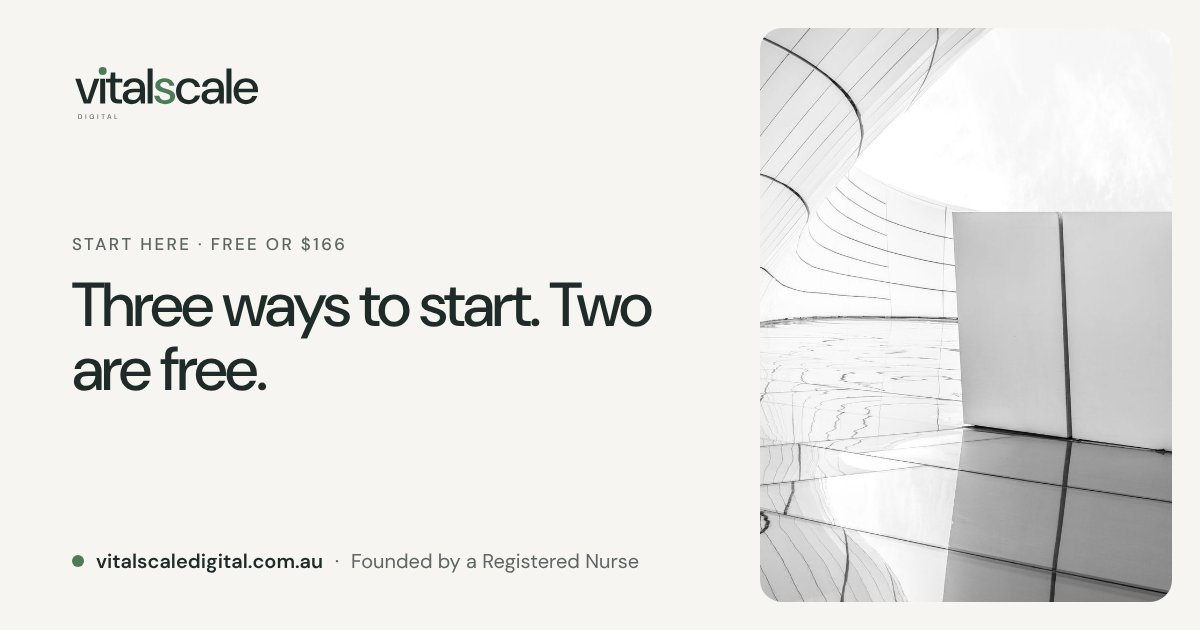
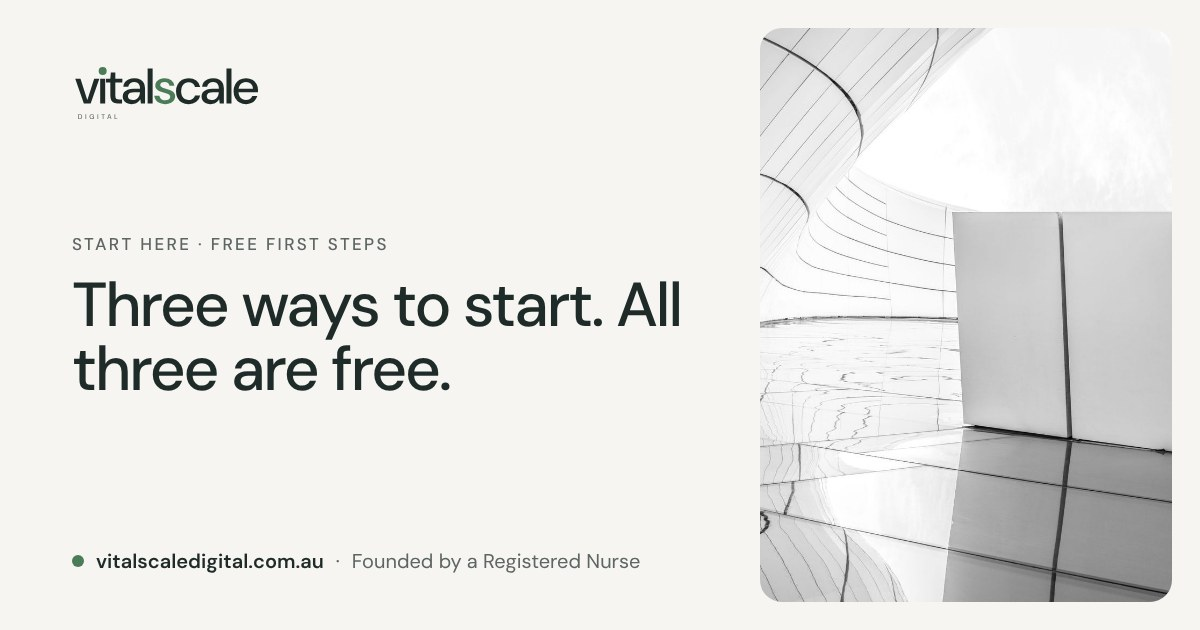
Three free ways to start (posts, website demo, policy checklist); 'Other ways we help' on service pages; Bloom Care links to Websites
Claude-Session: https://claude.ai/code/session_012Vi2C3pbGwJMH3zVt1ii12

Changed region(s): [[0.0617, 0.4222, 0.5858, 0.6333], [0.0925, 0.8746, 0.5242, 0.9048], [0.2158, 0.3619, 0.3083, 0.4222]]

diff --git a/site/start.html b/site/start.html
@@ -4,22 +4,22 @@
 <meta charset="utf-8">
 <meta name="viewport" content="width=device-width, initial-scale=1, viewport-fit=cover">
 <script>document.documentElement.classList.add("js")</script>
-<title>Start Here: Free Posts, Free Demo or $166 Check | VitalScale</title>
-<meta name="description" content="Three ways for NDIS providers to start: a free week of social media posts, a free website demo, or a $166 Policy vs Practice Gap Check by a nurse.">
+<title>Start Here: Free Posts, Website Demo or Policy Checklist</title>
+<meta name="description" content="Three free ways for NDIS providers to start: a week of social media posts, a website demo, or a policy checklist written by a nurse.">
 <link rel="canonical" href="https://vitalscaledigital.com.au/start">
 <meta property="og:type" content="website">
 <meta property="og:site_name" content="VitalScale Digital">
 <meta property="og:locale" content="en_AU">
-<meta property="og:title" content="Start Here: Free Posts, Free Demo or $166 Check | VitalScale">
-<meta property="og:description" content="Three ways for NDIS providers to start: a free week of social media posts, a free website demo, or a $166 Policy vs Practice Gap Check by a nurse.">
+<meta property="og:title" content="Start Here: Free Posts, Website Demo or Policy Checklist">
+<meta property="og:description" content="Three free ways for NDIS providers to start: a week of social media posts, a website demo, or a policy checklist written by a nurse.">
 <meta property="og:url" content="https://vitalscaledigital.com.au/start">
 <meta property="og:image" content="https://vitalscaledigital.com.au/og/start.jpg">
 <meta property="og:image:type" content="image/jpeg">
 <meta property="og:image:width" content="1200">
 <meta property="og:image:height" content="630">
-<meta property="og:image:alt" content="Three ways to start with VitalScale Digital. Two are free.">
+<meta property="og:image:alt" content="Three ways to start with VitalScale Digital. All three are free.">
 <meta name="twitter:card" content="summary_large_image">
-<script type="application/ld+json">{"@context": "https://schema.org", "@graph": [{"@type": "Organization", "@id": "https://vitalscaledigital.com.au/#organization", "name": "VitalScale Digital", "url": "https://vitalscaledigital.com.au/", "logo": {"@type": "ImageObject", "url": "https://vitalscaledigital.com.au/logo-primary.svg"}, "image": "https://vitalscaledigital.com.au/og-image.png", "description": "Nurse-led NDIS policies, social media and websites for NDIS providers in Australia, with safe AI and chatbots as an add-on.", "founder": {"@id": "https://vitalscaledigital.com.au/#ajay"}, "areaServed": {"@type": "Country", "name": "Australia"}, "contactPoint": {"@type": "ContactPoint", "contactType": "enquiries", "url": "https://vitalscaledigital.com.au/#book", "areaServed": "AU", "availableLanguage": "English", "telephone": "+61 406 970 615"}, "knowsAbout": ["NDIS providers", "NDIS registration", "NDIS policies and audits", "Social media marketing", "Safe use of AI in disability services", "Websites for NDIS providers"], "hasOfferCatalog": {"@type": "OfferCatalog", "name": "Services and prices for NDIS providers (all prices include GST)", "itemListElement": [{"@type": "Offer", "name": "Free week of posts", "url": "https://vitalscaledigital.com.au/free-week", "priceCurrency": "AUD", "priceSpecification": {"@type": "PriceSpecification", "price": 0, "priceCurrency": "AUD", "valueAddedTaxIncluded": true}, "price": "0"}, {"@type": "Offer", "name": "Free personalised website demo", "url": "https://vitalscaledigital.com.au/free-demo", "priceCurrency": "AUD", "priceSpecification": {"@type": "PriceSpecification", "price": 0, "priceCurrency": "AUD", "valueAddedTaxIncluded": true}, "price": "0"}, {"@type": "Offer", "name": "Policy vs Practice Gap Check", "url": "https://vitalscaledigital.com.au/policy-check", "priceCurrency": "AUD", "priceSpecification": {"@type": "PriceSpecification", "price": 166, "priceCurrency": "AUD", "valueAddedTaxIncluded": true}, "price": "166"}, {"@type": "Offer", "name": "Online Trust Check", "url": "https://vitalscaledigital.com.au/checks#trust-check", "priceCurrency": "AUD", "priceSpecification": {"@type": "PriceSpecification", "price": 166, "priceCurrency": "AUD", "valueAddedTaxIncluded": true}, "price": "166"}, {"@type": "Offer", "name": "Policy + Evidence System", "url": "https://vitalscaledigital.com.au/ndis-policies-and-procedures", "priceCurrency": "AUD", "priceSpecification": {"@type": "PriceSpecification", "minPrice": 1755, "priceCurrency": "AUD", "valueAddedTaxIncluded": true}}, {"@type": "Offer", "name": "Scroll-stopping Social Media", "url": "https://vitalscaledigital.com.au/ndis-marketing", "priceCurrency": "AUD", "priceSpecification": {"@type": "UnitPriceSpecification", "minPrice": 1423, "priceCurrency": "AUD", "valueAddedTaxIncluded": true, "unitText": "month"}}, {"@type": "Offer", "name": "Branding photos add-on", "url": "https://vitalscaledigital.com.au/pricing#social", "priceCurrency": "AUD", "priceSpecification": {"@type": "PriceSpecification", "price": 214, "priceCurrency": "AUD", "valueAddedTaxIncluded": true}, "price": "214"}, {"@type": "Offer", "name": "NDIS Website", "url": "https://vitalscaledigital.com.au/ndis-website-design", "priceCurrency": "AUD", "priceSpecification": {"@type": "PriceSpecification", "minPrice": 1380, "priceCurrency": "AUD", "valueAddedTaxIncluded": true}}, {"@type": "Offer", "name": "Website Care Plan", "url": "https://vitalscaledigital.com.au/ndis-website-design", "priceCurrency": "AUD", "priceSpecification": {"@type": "UnitPriceSpecification", "price": 166, "priceCurrency": "AUD", "valueAddedTaxIncluded": true, "unitText": "month"}, "price": "166"}, {"@type": "Offer", "name": "Safe AI and chatbots (add-on, priced in your proposal)", "url": "https://vitalscaledigital.com.au/safe-ai-for-ndis-providers"}, {"@type": "Offer", "name": "Branding or rebranding add-on", "url": "https://vitalscaledigital.com.au/ndis-website-design", "priceCurrency": "AUD", "priceSpecification": {"@type": "PriceSpecification", "price": 288, "priceCurrency": "AUD", "valueAddedTaxIncluded": true}, "price": "288"}, {"@type": "Offer", "name": "Google Business Profile add-on (setup)", "url": "https://vitalscaledigital.com.au/ndis-marketing#add-ons", "priceCurrency": "AUD", "priceSpecification": {"@type": "PriceSpecification", "price": 330, "priceCurrency": "AUD", "valueAddedTaxIncluded": true}, "price": "330"}, {"@type": "Offer", "name": "WhatsApp Business add-on (setup)", "url": "https://vitalscaledigital.com.au/ndis-marketing#add-ons", "priceCurrency": "AUD", "priceSpecification": {"@type": "PriceSpecification", "price": 330, "priceCurrency": "AUD", "valueAddedTaxIncluded": true}, "price": "330"}, {"@type": "Offer", "name": "Google Business Profile and WhatsApp Business add-ons together (setup)", "url": "https://vitalscaledigital.com.au/ndis-marketing#add-ons", "priceCurrency": "AUD", "priceSpecification": {"@type": "PriceSpecification", "price": 500, "priceCurrency": "AUD", "valueAddedTaxIncluded": true}, "price": "500"}, {"@type": "Offer", "name": "Add-on monthly management (optional, each)", "url": "https://vitalscaledigital.com.au/ndis-marketing#add-ons", "priceCurrency": "AUD", "priceSpecification": {"@type": "UnitPriceSpecification", "price": 166, "priceCurrency": "AUD", "valueAddedTaxIncluded": true, "unitText": "month"}, "price": "166"}, {"@type": "Offer", "name": "Website extras: AI chatbot, accessibility tools, online booking, extra languages, extra pages (quoted before we start)", "url": "https://vitalscaledigital.com.au/ndis-website-design"}]}, "sameAs": ["https://www.linkedin.com/company/vitalscale-digital/", "https://www.facebook.com/profile.php?id=61585755002903", "https://www.instagram.com/vital.scale.digital/", "https://maps.app.goo.gl/Z67sVE7jP8tvo4Ni9", "https://www.youtube.com/@vitalscaledigital-ajaysingh", "https://www.hotfrog.com.au/company/AaG9rtYNcgqtML1RWFkHHg/vitalscale-digital/melbourne/marketing-sales"], "email": "ajay.singh@vitalscaledigital.com.au", "telephone": "+61 406 970 615", "address": {"@type": "PostalAddress", "addressLocality": "Melbourne", "addressRegion": "VIC", "addressCountry": "AU"}}, {"@type": "Person", "@id": "https://vitalscaledigital.com.au/#ajay", "name": "Ajay Singh", "jobTitle": "Registered Nurse and founder", "description": "Registered Nurse and founder of VitalScale Digital. Ajay started VitalScale to help good NDIS providers spend less time on paperwork and be found by the people looking for them.", "image": "https://vitalscaledigital.com.au/photos/ajay.jpg", "url": "https://vitalscaledigital.com.au/#founder", "worksFor": {"@id": "https://vitalscaledigital.com.au/#organization"}, "sameAs": ["https://www.linkedin.com/in/ajay-vitalscaledigital/"]}, {"@type": "WebSite", "@id": "https://vitalscaledigital.com.au/#website", "url": "https://vitalscaledigital.com.au/", "name": "VitalScale Digital", "inLanguage": "en-AU", "publisher": {"@id": "https://vitalscaledigital.com.au/#organization"}}, {"@type": "WebPage", "@id": "https://vitalscaledigital.com.au/start#webpage", "url": "https://vitalscaledigital.com.au/start", "name": "Start Here: Free Posts, Free Demo or $166 Check | VitalScale", "description": "Three ways for NDIS providers to start: a free week of social media posts, a free website demo, or a $166 Policy vs Practice Gap Check by a nurse.", "isPartOf": {"@id": "https://vitalscaledigital.com.au/#website"}, "inLanguage": "en-AU", "breadcrumb": {"@id": "https://vitalscaledigital.com.au/start#breadcrumb"}, "about": {"@id": "https://vitalscaledigital.com.au/start#offers"}}, {"@type": "OfferCatalog", "@id": "https://vitalscaledigital.com.au/start#offers", "name": "Ways to start with VitalScale Digital", "itemListElement": [{"@type": "Offer", "name": "Free week of posts", "url": "https://vitalscaledigital.com.au/free-week", "priceCurrency": "AUD", "priceSpecification": {"@type": "PriceSpecification", "price": 0, "priceCurrency": "AUD", "valueAddedTaxIncluded": true}, "price": "0"}, {"@type": "Offer", "name": "Free personalised website demo", "url": "https://vitalscaledigital.com.au/free-demo", "priceCurrency": "AUD", "priceSpecification": {"@type": "PriceSpecification", "price": 0, "priceCurrency": "AUD", "valueAddedTaxIncluded": true}, "price": "0"}, {"@type": "Offer", "name": "Policy vs Practice Gap Check", "url": "https://vitalscaledigital.com.au/policy-check", "priceCurrency": "AUD", "priceSpecification": {"@type": "PriceSpecification", "price": 166, "priceCurrency": "AUD", "valueAddedTaxIncluded": true}, "price": "166"}, {"@type": "Offer", "name": "Online Trust Check", "url": "https://vitalscaledigital.com.au/checks#trust-check", "priceCurrency": "AUD", "priceSpecification": {"@type": "PriceSpecification", "price": 166, "priceCurrency": "AUD", "valueAddedTaxIncluded": true}, "price": "166"}]}, {"@type": "BreadcrumbList", "@id": "https://vitalscaledigital.com.au/start#breadcrumb", "itemListElement": [{"@type": "ListItem", "position": 1, "name": "Home", "item": "https://vitalscaledigital.com.au/"}, {"@type": "ListItem", "position": 2, "name": "Start here", "item": "https://vitalscaledigital.com.au/start"}]}]}</script>
+<script type="application/ld+json">{"@context": "https://schema.org", "@graph": [{"@type": "Organization", "@id": "https://vitalscaledigital.com.au/#organization", "name": "VitalScale Digital", "url": "https://vitalscaledigital.com.au/", "logo": {"@type": "ImageObject", "url": "https://vitalscaledigital.com.au/logo-primary.svg"}, "image": "https://vitalscaledigital.com.au/og-image.png", "description": "Nurse-led NDIS policies, social media and websites for NDIS providers in Australia, with safe AI and chatbots as an add-on.", "founder": {"@id": "https://vitalscaledigital.com.au/#ajay"}, "areaServed": {"@type": "Country", "name": "Australia"}, "contactPoint": {"@type": "ContactPoint", "contactType": "enquiries", "url": "https://vitalscaledigital.com.au/#book", "areaServed": "AU", "availableLanguage": "English", "telephone": "+61 406 970 615"}, "knowsAbout": ["NDIS providers", "NDIS registration", "NDIS policies and audits", "Social media marketing", "Safe use of AI in disability services", "Websites for NDIS providers"], "hasOfferCatalog": {"@type": "OfferCatalog", "name": "Services and prices for NDIS providers (all prices include GST)", "itemListElement": [{"@type": "Offer", "name": "Free week of posts", "url": "https://vitalscaledigital.com.au/free-week", "priceCurrency": "AUD", "priceSpecification": {"@type": "PriceSpecification", "price": 0, "priceCurrency": "AUD", "valueAddedTaxIncluded": true}, "price": "0"}, {"@type": "Offer", "name": "Free personalised website demo", "url": "https://vitalscaledigital.com.au/free-demo", "priceCurrency": "AUD", "priceSpecification": {"@type": "PriceSpecification", "price": 0, "priceCurrency": "AUD", "valueAddedTaxIncluded": true}, "price": "0"}, {"@type": "Offer", "name": "Policy vs Practice Gap Check", "url": "https://vitalscaledigital.com.au/policy-check", "priceCurrency": "AUD", "priceSpecification": {"@type": "PriceSpecification", "price": 166, "priceCurrency": "AUD", "valueAddedTaxIncluded": true}, "price": "166"}, {"@type": "Offer", "name": "Online Trust Check", "url": "https://vitalscaledigital.com.au/checks#trust-check", "priceCurrency": "AUD", "priceSpecification": {"@type": "PriceSpecification", "price": 166, "priceCurrency": "AUD", "valueAddedTaxIncluded": true}, "price": "166"}, {"@type": "Offer", "name": "Policy + Evidence System", "url": "https://vitalscaledigital.com.au/ndis-policies-and-procedures", "priceCurrency": "AUD", "priceSpecification": {"@type": "PriceSpecification", "minPrice": 1755, "priceCurrency": "AUD", "valueAddedTaxIncluded": true}}, {"@type": "Offer", "name": "Scroll-stopping Social Media", "url": "https://vitalscaledigital.com.au/ndis-marketing", "priceCurrency": "AUD", "priceSpecification": {"@type": "UnitPriceSpecification", "minPrice": 1423, "priceCurrency": "AUD", "valueAddedTaxIncluded": true, "unitText": "month"}}, {"@type": "Offer", "name": "Branding photos add-on", "url": "https://vitalscaledigital.com.au/pricing#social", "priceCurrency": "AUD", "priceSpecification": {"@type": "PriceSpecification", "price": 214, "priceCurrency": "AUD", "valueAddedTaxIncluded": true}, "price": "214"}, {"@type": "Offer", "name": "NDIS Website", "url": "https://vitalscaledigital.com.au/ndis-website-design", "priceCurrency": "AUD", "priceSpecification": {"@type": "PriceSpecification", "minPrice": 1380, "priceCurrency": "AUD", "valueAddedTaxIncluded": true}}, {"@type": "Offer", "name": "Website Care Plan", "url": "https://vitalscaledigital.com.au/ndis-website-design", "priceCurrency": "AUD", "priceSpecification": {"@type": "UnitPriceSpecification", "price": 166, "priceCurrency": "AUD", "valueAddedTaxIncluded": true, "unitText": "month"}, "price": "166"}, {"@type": "Offer", "name": "Safe AI and chatbots (add-on, priced in your proposal)", "url": "https://vitalscaledigital.com.au/safe-ai-for-ndis-providers"}, {"@type": "Offer", "name": "Branding or rebranding add-on", "url": "https://vitalscaledigital.com.au/ndis-website-design", "priceCurrency": "AUD", "priceSpecification": {"@type": "PriceSpecification", "price": 288, "priceCurrency": "AUD", "valueAddedTaxIncluded": true}, "price": "288"}, {"@type": "Offer", "name": "Google Business Profile add-on (setup)", "url": "https://vitalscaledigital.com.au/ndis-marketing#add-ons", "priceCurrency": "AUD", "priceSpecification": {"@type": "PriceSpecification", "price": 330, "priceCurrency": "AUD", "valueAddedTaxIncluded": true}, "price": "330"}, {"@type": "Offer", "name": "WhatsApp Business add-on (setup)", "url": "https://vitalscaledigital.com.au/ndis-marketing#add-ons", "priceCurrency": "AUD", "priceSpecification": {"@type": "PriceSpecification", "price": 330, "priceCurrency": "AUD", "valueAddedTaxIncluded": true}, "price": "330"}, {"@type": "Offer", "name": "Google Business Profile and WhatsApp Business add-ons together (setup)", "url": "https://vitalscaledigital.com.au/ndis-marketing#add-ons", "priceCurrency": "AUD", "priceSpecification": {"@type": "PriceSpecification", "price": 500, "priceCurrency": "AUD", "valueAddedTaxIncluded": true}, "price": "500"}, {"@type": "Offer", "name": "Add-on monthly management (optional, each)", "url": "https://vitalscaledigital.com.au/ndis-marketing#add-ons", "priceCurrency": "AUD", "priceSpecification": {"@type": "UnitPriceSpecification", "price": 166, "priceCurrency": "AUD", "valueAddedTaxIncluded": true, "unitText": "month"}, "price": "166"}, {"@type": "Offer", "name": "Website extras: AI chatbot, accessibility tools, online booking, extra languages, extra pages (quoted before we start)", "url": "https://vitalscaledigital.com.au/ndis-website-design"}]}, "sameAs": ["https://www.linkedin.com/company/vitalscale-digital/", "https://www.facebook.com/profile.php?id=61585755002903", "https://www.instagram.com/vital.scale.digital/", "https://maps.app.goo.gl/Z67sVE7jP8tvo4Ni9", "https://www.youtube.com/@vitalscaledigital-ajaysingh", "https://www.hotfrog.com.au/company/AaG9rtYNcgqtML1RWFkHHg/vitalscale-digital/melbourne/marketing-sales"], "email": "ajay.singh@vitalscaledigital.com.au", "telephone": "+61 406 970 615", "address": {"@type": "PostalAddress", "addressLocality": "Melbourne", "addressRegion": "VIC", "addressCountry": "AU"}}, {"@type": "Person", "@id": "https://vitalscaledigital.com.au/#ajay", "name": "Ajay Singh", "jobTitle": "Registered Nurse and founder", "description": "Registered Nurse and founder of VitalScale Digital. Ajay started VitalScale to help good NDIS providers spend less time on paperwork and be found by the people looking for them.", "image": "https://vitalscaledigital.com.au/photos/ajay.jpg", "url": "https://vitalscaledigital.com.au/#founder", "worksFor": {"@id": "https://vitalscaledigital.com.au/#organization"}, "sameAs": ["https://www.linkedin.com/in/ajay-vitalscaledigital/"]}, {"@type": "WebSite", "@id": "https://vitalscaledigital.com.au/#website", "url": "https://vitalscaledigital.com.au/", "name": "VitalScale Digital", "inLanguage": "en-AU", "publisher": {"@id": "https://vitalscaledigital.com.au/#organization"}}, {"@type": "WebPage", "@id": "https://vitalscaledigital.com.au/start#webpage", "url": "https://vitalscaledigital.com.au/start", "name": "Start Here: Free Posts, Free Demo or $166 Check | VitalScale", "description": "Three free ways for NDIS providers to start: a week of social media posts, a website demo, or a policy checklist written by a nurse.", "isPartOf": {"@id": "https://vitalscaledigital.com.au/#website"}, "inLanguage": "en-AU", "breadcrumb": {"@id": "https://vitalscaledigital.com.au/start#breadcrumb"}, "about": {"@id": "https://vitalscaledigital.com.au/start#offers"}}, {"@type": "OfferCatalog", "@id": "https://vitalscaledigital.com.au/start#offers", "name": "Ways to start with VitalScale Digital", "itemListElement": [{"@type": "Offer", "name": "Free week of posts", "url": "https://vitalscaledigital.com.au/free-week", "priceCurrency": "AUD", "priceSpecification": {"@type": "PriceSpecification", "price": 0, "priceCurrency": "AUD", "valueAddedTaxIncluded": true}, "price": "0"}, {"@type": "Offer", "name": "Free personalised website demo", "url": "https://vitalscaledigital.com.au/free-demo", "priceCurrency": "AUD", "priceSpecification": {"@type": "PriceSpecification", "price": 0, "priceCurrency": "AUD", "valueAddedTaxIncluded": true}, "price": "0"}, {"@type": "Offer", "name": "Policy vs Practice Gap Check", "url": "https://vitalscaledigital.com.au/policy-check", "priceCurrency": "AUD", "priceSpecification": {"@type": "PriceSpecification", "price": 166, "priceCurrency": "AUD", "valueAddedTaxIncluded": true}, "price": "166"}, {"@type": "Offer", "name": "Online Trust Check", "url": "https://vitalscaledigital.com.au/checks#trust-check", "priceCurrency": "AUD", "priceSpecification": {"@type": "PriceSpecification", "price": 166, "priceCurrency": "AUD", "valueAddedTaxIncluded": true}, "price": "166"}]}, {"@type": "BreadcrumbList", "@id": "https://vitalscaledigital.com.au/start#breadcrumb", "itemListElement": [{"@type": "ListItem", "position": 1, "name": "Home", "item": "https://vitalscaledigital.com.au/"}, {"@type": "ListItem", "position": 2, "name": "Start here", "item": "https://vitalscaledigital.com.au/start"}]}]}</script>
 <link rel="preconnect" href="https://fonts.googleapis.com"><link rel="preconnect" href="https://fonts.gstatic.com" crossorigin><link rel="stylesheet" href="https://fonts.googleapis.com/css2?family=DM+Sans:opsz,wght@9..40,400;9..40,500;9..40,600&display=swap">
 <link rel="stylesheet" href="styles.css">
 <link rel="icon" href="/icon-vs.png" type="image/png" sizes="96x96">
@@ -36,16 +36,16 @@
 <section class="hero"><div class="wrap">
   <div class="hero-copy">
     <span class="eyebrow">Start here</span>
-    <h1>Three ways to start. Two are free.</h1>
-    <p class="lede">Pick the one you need help with: social media, your website or your policies. The posts and the demo are free, with no card. The Gap Check is $166 inc GST.</p>
+    <h1>Three ways to start. All three are free.</h1>
+    <p class="lede">Pick the one you need help with: social media, your website or your policies. Each one has a free first step, with no card.</p>
     <ul class="trust-strip" aria-label="Why VitalScale"><li>Registered Nurse</li><li>NDIS only</li><li>Prices include GST</li><li>No hidden costs</li><li>No promised outcomes</li></ul>
   </div>
   <figure class="photo photo-hero"><img src="photos/hero.jpg" alt="" width="1600" height="1068" fetchpriority="high"></figure>
 </div></section>
 
 <section class="band" id="offers"><div class="wrap">
-  <div class="start-cards"><article class="start-card accent-social"><span class="eyebrow">Social media</span><h2>Free week of posts</h2><p class="price-tag">Free</p><p class="muted">We design a week of posts around your services and your area. You upload them yourself, and you don&#x27;t have to buy anything after.</p><ul class="tick-list"><li>3 single-image posts and 1 carousel</li><li>Captions for families and support coordinators</li><li>No card, one per business</li></ul><a class="btn btn-primary" href="free-week.html">Get a free week of posts</a></article><article class="start-card accent-websites"><span class="eyebrow">Websites</span><h2>Free personalised website demo</h2><p class="price-tag">Free</p><p class="muted">We design a homepage for your business and show it to you on a computer and a phone. It&#x27;s a demo of one page, so you can see our work before you spend anything.</p><ul class="tick-list"><li>Your services, your area and how to refer</li><li>Plain English, planned around what families and coordinators look for</li><li>No card and no obligation</li></ul><a class="btn btn-primary" href="free-demo.html">Get a free website demo</a></article><article class="start-card accent-policies"><span class="eyebrow">Policies</span><h2>Policy vs Practice Gap Check</h2><p class="price-tag">$166 inc GST</p><p class="muted">A Registered Nurse reads your policies, compares them with how your team actually works, and shows you where the two don&#x27;t match. If you go ahead with our Policy + Evidence System within 30 days, the full $166 comes off the price.</p><ul class="tick-list"><li>You send up to 5 policies and a short form</li><li>You get a written gap report, top gaps ranked</li><li>A 30-minute call with Ajay</li></ul><a class="btn btn-primary" href="policy-check.html">Check my policies, $166</a></article></div>
-  <div class="start-foot"><p class="muted">See a real one: Bloom Care, an NDIS provider in Melbourne&#x27;s west. <a href="work/bloom-care.html">See how we built it</a></p><p class="muted">Already have a social media page and a website? The $166 inc GST <a href="checks.html#trust-check">Online Trust Check</a> shows what families and coordinators see, with a video walkthrough, checklist and 20-minute call.</p><p class="muted">Not sure which one? Call or WhatsApp Ajay on <a href="tel:+61406970615">0406 970 615</a>, and he&#x27;ll tell you which fits, if any.</p></div>
+  <div class="start-cards"><article class="start-card accent-social"><span class="eyebrow">Social media</span><h2>Free week of posts</h2><p class="price-tag">Free</p><p class="muted">We design a week of posts around your services and your area. You upload them yourself, and you don&#x27;t have to buy anything after.</p><ul class="tick-list"><li>3 single-image posts and 1 carousel</li><li>Captions for families and support coordinators</li><li>No card, one per business</li></ul><a class="btn btn-primary" href="free-week.html">Get a free week of posts</a></article><article class="start-card accent-websites"><span class="eyebrow">Websites</span><h2>Free personalised website demo</h2><p class="price-tag">Free</p><p class="muted">We design a homepage for your business and show it to you on a computer and a phone. It&#x27;s a demo of one page, so you can see our work before you spend anything.</p><ul class="tick-list"><li>Your services, your area and how to refer</li><li>Plain English, planned around what families and coordinators look for</li><li>No card and no obligation</li></ul><a class="btn btn-primary" href="free-demo.html">Get a free website demo</a></article><article class="start-card accent-policies"><span class="eyebrow">Policies</span><h2>Free NDIS policy checklist</h2><p class="price-tag">Free</p><p class="muted">Every policy an NDIS provider needs, what an auditor wants to see for each one, and who it applies to. Written by a Registered Nurse.</p><ul class="tick-list"><li>26 items in three parts: every provider, registered, and specific supports</li><li>Built from the NDIS Commission&#x27;s Practice Standards and Code of Conduct</li><li>Enter your email and the PDF downloads straight away</li></ul><a class="btn btn-primary" href="ndis-policy-checklist.html">Get the free checklist</a></article></div>
+  <div class="start-foot"><p class="muted">Want a nurse to check your own policies? The $166 inc GST <a href="policy-check.html">Policy vs Practice Gap Check</a> compares up to 5 of your policies with how your team works, with a written gap report and a 30-minute call.</p><p class="muted">See a real one: Bloom Care, an NDIS provider in Melbourne&#x27;s west. <a href="work/bloom-care.html">See how we built it</a></p><p class="muted">Already have a social media page and a website? The $166 inc GST <a href="checks.html#trust-check">Online Trust Check</a> shows what families and coordinators see, with a video walkthrough, checklist and 20-minute call.</p><p class="muted">Not sure which one? Call or WhatsApp Ajay on <a href="tel:+61406970615">0406 970 615</a>, and he&#x27;ll tell you which fits, if any.</p></div>
 </div></section>
 </main>
 <footer class="site-footer"><div class="wrap">

diff --git a/site/ndis-website-design.html b/site/ndis-website-design.html
@@ -135,6 +135,7 @@
   </div>
 </div></section>
 
+<section class="other-help"><div class="wrap"><h2 class="other-title">Other ways we help</h2><div class="other-grid"><a class="other-card" href="ndis-policies-and-procedures.html"><span class="eyebrow">Policies</span><span>Policies written around how your team actually works.</span></a><a class="other-card" href="ndis-marketing.html"><span class="eyebrow">More enquiries</span><span>Social media that brings enquiries from families and support coordinators.</span></a></div></div></section>
 <section class="start-section band" id="start-bottom"><div class="wrap"><div class="start-block accent-websites"><div class="stack"><span class="eyebrow">Start here</span><h2>See a homepage demo before you decide</h2><p class="muted">A free demo of one homepage, made for your business. If you want the full site later, you get a fixed written quote first.</p></div><a class="btn btn-primary" href="free-demo.html">Get a free website demo</a></div></div></section>
 
 <section id="book"><div class="wrap"><div class="cta cta-form">

diff --git a/site/ndis-policies-and-procedures.html b/site/ndis-policies-and-procedures.html
@@ -172,6 +172,7 @@
   </div>
 </div></section>
 
+<section class="other-help"><div class="wrap"><h2 class="other-title">Other ways we help</h2><div class="other-grid"><a class="other-card" href="ndis-marketing.html"><span class="eyebrow">More enquiries</span><span>Social media that brings enquiries from families and support coordinators.</span></a><a class="other-card" href="ndis-website-design.html"><span class="eyebrow">Websites</span><span>Plain-English websites that make it easy to refer to you.</span></a></div></div></section>
 <section class="start-section band" id="start-bottom"><div class="wrap"><div class="start-block accent-policies"><div class="stack"><span class="eyebrow">Start here</span><h2>Start with a $166 Gap Check</h2><p class="muted">Find your gaps first. If you go ahead with our Policy + Evidence System within 30 days, the full $166 comes off the price.</p></div><a class="btn btn-primary" href="policy-check.html">Check my policies, $166</a></div></div></section>
 
 <section id="book"><div class="wrap"><div class="cta cta-form">

diff --git a/site/ndis-marketing.html b/site/ndis-marketing.html
@@ -165,6 +165,7 @@
   </div>
 </div></section>
 
+<section class="other-help"><div class="wrap"><h2 class="other-title">Other ways we help</h2><div class="other-grid"><a class="other-card" href="ndis-policies-and-procedures.html"><span class="eyebrow">Policies</span><span>Policies written around how your team actually works.</span></a><a class="other-card" href="ndis-website-design.html"><span class="eyebrow">Websites</span><span>Plain-English websites that make it easy to refer to you.</span></a></div></div></section>
 <section class="start-section band" id="start-bottom"><div class="wrap"><div class="start-block accent-social"><div class="stack"><span class="eyebrow">Start here</span><h2>Still deciding? Start with a free week.</h2><p class="muted">See posts made for your business before you spend a cent. No card needed, and you don&#x27;t have to buy anything after.</p></div><a class="btn btn-primary" href="free-week.html">Get a free week of posts</a></div></div></section>
 
 <section id="book"><div class="wrap"><div class="cta cta-form">

diff --git a/site/styles.css b/site/styles.css
@@ -1026,3 +1026,12 @@ body, body::before { background: var(--page); }
 @media (min-width: 761px) {
   .hero::before { background: linear-gradient(90deg, rgba(14, 28, 27, 0.95) 0%, rgba(14, 28, 27, 0.90) 45%, rgba(14, 28, 27, 0.62) 75%, rgba(14, 28, 27, 0.18) 100%); }
 }
+
+/* "Other ways we help": a small strip on each service page linking to the other two services */
+.other-help { padding-block: clamp(40px, 6vw, 72px); }
+.other-title { font-size: var(--step-2); margin-bottom: 20px; }
+.other-grid { display: grid; grid-template-columns: repeat(2, minmax(0, 1fr)); gap: 16px; }
+.other-card { display: grid; gap: 8px; padding: 22px 24px; background: var(--white); border: 1px solid var(--line); border-radius: var(--radius); text-decoration: none; color: var(--black); }
+.other-card:hover { border-color: var(--deep-green); }
+.other-card span:last-child::after { content: " \2192"; }
+@media (max-width: 700px) { .other-grid { grid-template-columns: minmax(0, 1fr); } }

diff --git a/site/index.html b/site/index.html
@@ -43,7 +43,7 @@
       <a class="btn btn-ghost" href="checks.html#trust-check">Check my online presence, $166</a>
       <a class="scroll-down" href="#services" aria-label="Scroll to services">&#8595;</a>
     </div>
-    <p class="quiet-line">Or start free: <a href="free-week.html">a week of posts</a> or <a href="free-demo.html">a personalised website demo</a>. No card needed.</p>
+    <p class="quiet-line">Or start free: <a href="free-week.html">a week of posts</a>, <a href="free-demo.html">a personalised website demo</a> or <a href="ndis-policy-checklist.html">our policy checklist</a>. No card needed.</p>
     <ul class="trust-strip" aria-label="Why VitalScale"><li>Registered Nurse</li><li>NDIS only</li><li>Prices include GST</li><li>No hidden costs</li><li>No promised outcomes</li></ul>
   </div>
   <figure class="photo photo-hero"><img src="photos/hero.jpg" alt="" width="1600" height="1068" fetchpriority="high"></figure>

diff --git a/site/work/bloom-care.html b/site/work/bloom-care.html
@@ -59,6 +59,7 @@
     <p>We did all of it on WhatsApp. She's busy, so she'd reply whenever she had a minute. No long calls. No email chains. We didn't chase her, and she never had to block out an hour for us.</p>
     <p>And everything was in writing: what we'd build, the price, and each change we made along the way. Nothing was agreed on a call and forgotten later. She could scroll back and check any of it.</p>
     <p><a class="link-arrow" href="https://bloomcare.com.au" target="_blank" rel="noopener">See it live at bloomcare.com.au<span class="visually-hidden"> (opens in a new tab)</span></a></p>
+    <p><a class="link-arrow" href="/ndis-website-design">See what&#x27;s in an NDIS website</a></p>
   </div>
 </div></section>
 
